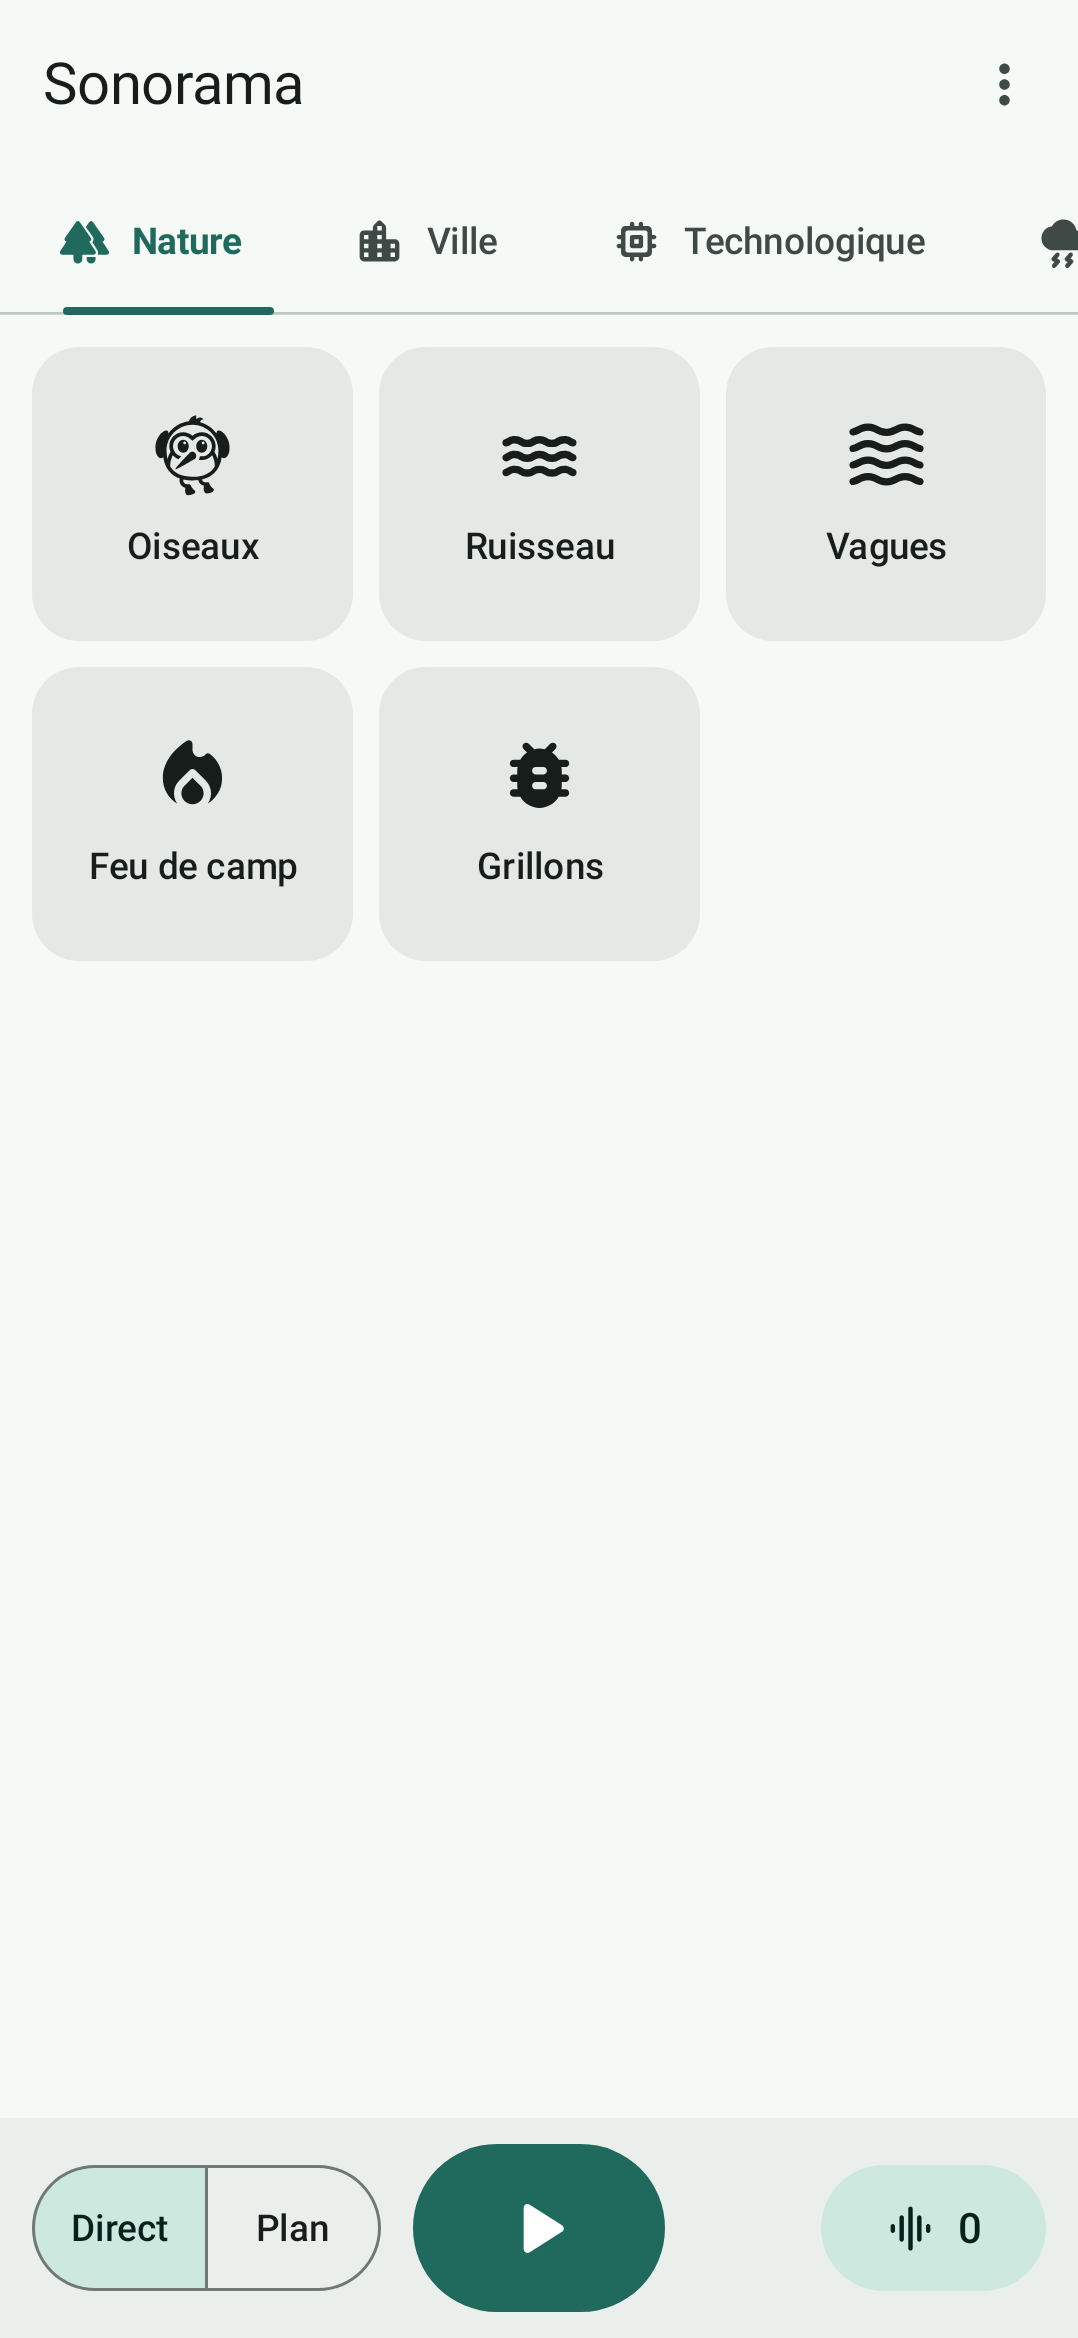
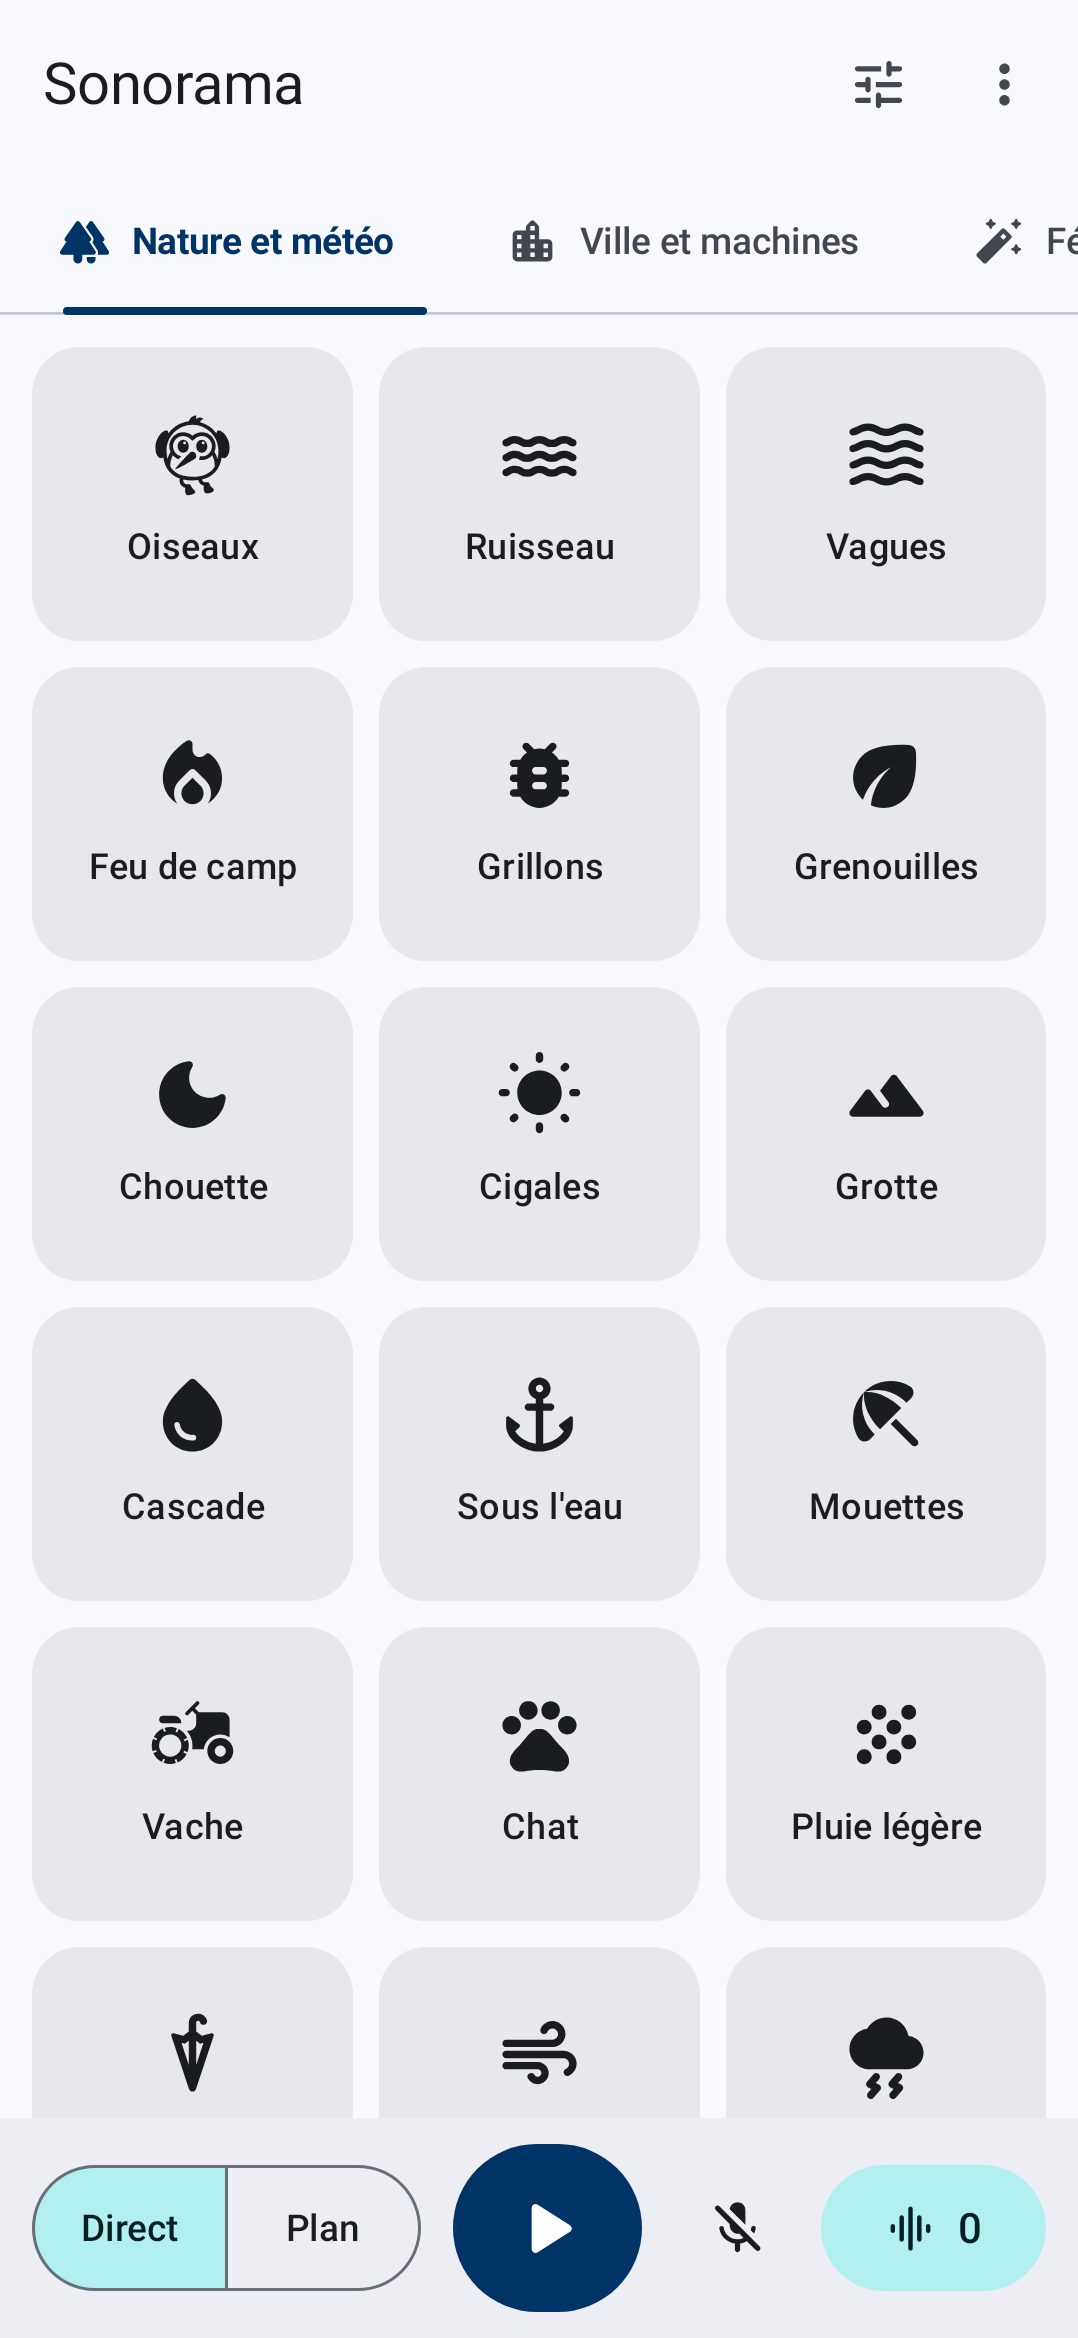
Mettre à jour les captures et le paragraphe Licences du README
- Les six captures de la fiche (fastlane/fr-FR) viennent des tests
  d'écran, avec la nouvelle palette et l'interface actuelle.
- Licences des sons du pack de base : formulation générique, le détail
  (auteur, licence, source) restant dans LICENSES.md.
- La fiche Play Store n'a plus besoin de l'icône, ajoutée par la PR #11.

Claude-Session: https://claude.ai/code/session_01A9WpJgeokoYtcmfGxFfXG9

diff --git a/README.md b/README.md
@@ -79,8 +79,8 @@ Le Play Store reçoit un AAB signé par une clé d'envoi ; Google garde la clé 
 4. Dans la Play Console : politique de confidentialité = l'adresse de [PRIVACY.md](PRIVACY.md) sur GitHub ;
    sécurité des données = aucune donnée collectée ; services de premier plan à déclarer : lecture média et micro.
 
-La fiche réutilise `fastlane/metadata/android`. Il lui manque encore l'icône (`images/icon.png`, 512 × 512) et la
-bannière (`images/featureGraphic.png`, 1024 × 500, sans transparence), ainsi que des captures en anglais. Un
+La fiche réutilise `fastlane/metadata/android`. Il lui manque encore la bannière
+(`images/featureGraphic.png`, 1024 × 500, sans transparence) et des captures en anglais. Un
 compte personnel récent doit d'abord faire tourner un test fermé : 12 testeurs pendant 14 jours d'affilée.
 
 ## Organisation du dépôt
@@ -135,8 +135,8 @@ Les failles de sécurité se signalent en privé : [SECURITY.md](SECURITY.md).
 ## Licences
 
 - Code : [GNU GPL 3.0](LICENSE).
-- Sons du pack de base : [CC0 1.0](app/src/main/assets/basepack/LICENSES.md), 11 créations synthétisées,
-  22 enregistrements de Freesound, dont les auteurs sont cités, et 3 sons générés par Stable Audio Open.
+- Sons du pack de base : libres de droits (CC0 de préférence, CC BY avec attribution). L'auteur, la licence et la
+  source de chaque son figurent dans [LICENSES.md](app/src/main/assets/basepack/LICENSES.md).
 - Pictogrammes : Material Icons de Google, licence Apache 2.0.
 - Reconnaissance vocale : [Vosk](https://alphacephei.com/vosk/) et son modèle français
   `vosk-model-small-fr-0.22`, licence Apache 2.0 ; JNA, licence Apache 2.0.
